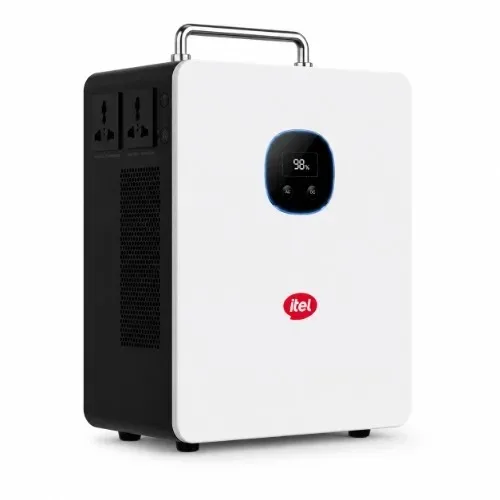
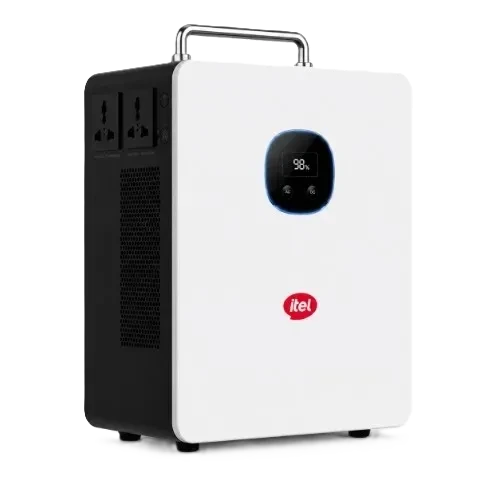
feat(black-friday): re-import manually edited background-free product images from Downloads folder

diff --git a/public/js/black-friday-detail.js b/public/js/black-friday-detail.js
@@ -93,8 +93,8 @@
       powersShort: 'TV + Decoder + Standing Fans + Workstations + Blender',
       warranty: '1-Year Full Warranty & Guaranteed Spare Parts Backup',
       images: [
-        { label: 'Full Combo', src: '/images/products/hicces-500w.jpg', desc: 'Hicces 500W Station + 585W Panel' },
-        { label: 'Front Display', src: '/images/products/hicces-500w.jpg', desc: 'Digital LCD Readout & AC Ports' },
+        { label: 'Full Combo', src: '/images/products/hicces-500w.png', desc: 'Hicces 500W Station + 585W Panel' },
+        { label: 'Front Display', src: '/images/products/hicces-500w.png', desc: 'Digital LCD Readout & AC Ports' },
         { label: '585W Solar Panel', src: '/images/products/jinko-solar-panel.png', desc: 'Monocrystalline Solar Panel' },
         { label: 'Cables & Accessories', src: '/images/products/mc4-solar-cable.png', desc: 'Heavy-Duty MC4 Extension Cables' }
       ],
@@ -157,8 +157,8 @@
       powersShort: 'Laptops, Starlink Router, Phones, Lighting, LED TV, Clippers',
       warranty: '1-Year Official Warranty & Lagos Technical Support',
       images: [
-        { label: 'Full Combo', src: '/images/products/hicces-500w.jpg', desc: 'Hicces 300W Station + 585W Panel' },
-        { label: 'Front Panel', src: '/images/products/hicces-500w.jpg', desc: 'Control Display & Outlets' },
+        { label: 'Full Combo', src: '/images/products/hicces-500w.png', desc: 'Hicces 300W Station + 585W Panel' },
+        { label: 'Front Panel', src: '/images/products/hicces-500w.png', desc: 'Control Display & Outlets' },
         { label: '585W Solar Panel', src: '/images/products/jinko-solar-panel.png', desc: 'Monocrystalline Solar Panel' },
         { label: 'Cables & Accessories', src: '/images/products/mc4-solar-cable.png', desc: 'Connecting Cables & Charger' }
       ],
@@ -406,8 +406,8 @@
       powersShort: 'Office Equipment, Deep Freezer, Sewing Machine, Sound',
       warranty: '1-Year Official Warranty & Lagos Spare Parts Guarantee',
       images: [
-        { label: 'Full Combo', src: '/images/products/hicces-500w.jpg', desc: 'Hicces 1000W + 2× 585W Panels' },
-        { label: 'Station Front', src: '/images/products/hicces-500w.jpg', desc: '1000W Inverter Outlets & Screen' },
+        { label: 'Full Combo', src: '/images/products/hicces-500w.png', desc: 'Hicces 1000W + 2× 585W Panels' },
+        { label: 'Station Front', src: '/images/products/hicces-500w.png', desc: '1000W Inverter Outlets & Screen' },
         { label: 'Dual Panels', src: '/images/products/jinko-solar-panel.png', desc: '2× 585W Monocrystalline Panels' },
         { label: 'Solar Cables', src: '/images/products/mc4-solar-cable.png', desc: 'Parallel MC4 Extension Cable' }
       ],

diff --git a/public/js/black-friday.js b/public/js/black-friday.js
@@ -24,7 +24,7 @@
       savings: 126000,
       savingsPct: '28%',
       colorTheme: 'bg-teal',
-      image: '/images/products/hicces-500w.jpg',
+      image: '/images/products/hicces-500w.png',
       badge: 'STARTER COMBO',
       powers: 'Laptops, Starlink Router, Phones, Lighting, LED TV, Clippers',
       runtime: 'Continuous day & night power for work essentials'
@@ -43,7 +43,7 @@
       savings: 148000,
       savingsPct: '28%',
       colorTheme: 'bg-crimson',
-      image: '/images/products/hicces-500w.jpg',
+      image: '/images/products/hicces-500w.png',
       badge: 'TOP VALUE COMBO',
       powers: 'TV + Decoder + Standing Fans + Workstations + Blender',
       runtime: 'Full workday power station for remote professionals'
@@ -157,7 +157,7 @@
       savings: 296000,
       savingsPct: '28%',
       colorTheme: 'bg-teal',
-      image: '/images/products/hicces-500w.jpg',
+      image: '/images/products/hicces-500w.png',
       badge: 'HEAVY ESSENTIALS',
       powers: 'Office Equipment, Deep Freezer, Sewing Machine, Sound',
       runtime: 'Reliable all-day power for SMEs and residential clinics'

diff --git a/public/black-friday.html b/public/black-friday.html
@@ -255,7 +255,7 @@
               tabindex="0" title="View Hicces 500W Full Specifications & Details">
               <div class="bf-showcase-media-duo">
                 <div class="bf-media-unit bf-media-powerstation">
-                  <img src="/images/products/hicces-500w.jpg" alt="Hicces 500W ESS 5-in-1 Solar Kit"
+                  <img src="/images/products/hicces-500w.png" alt="Hicces 500W ESS 5-in-1 Solar Kit"
                     loading="eager">
                 </div>
                 <div class="bf-media-unit bf-media-solarpanel">
